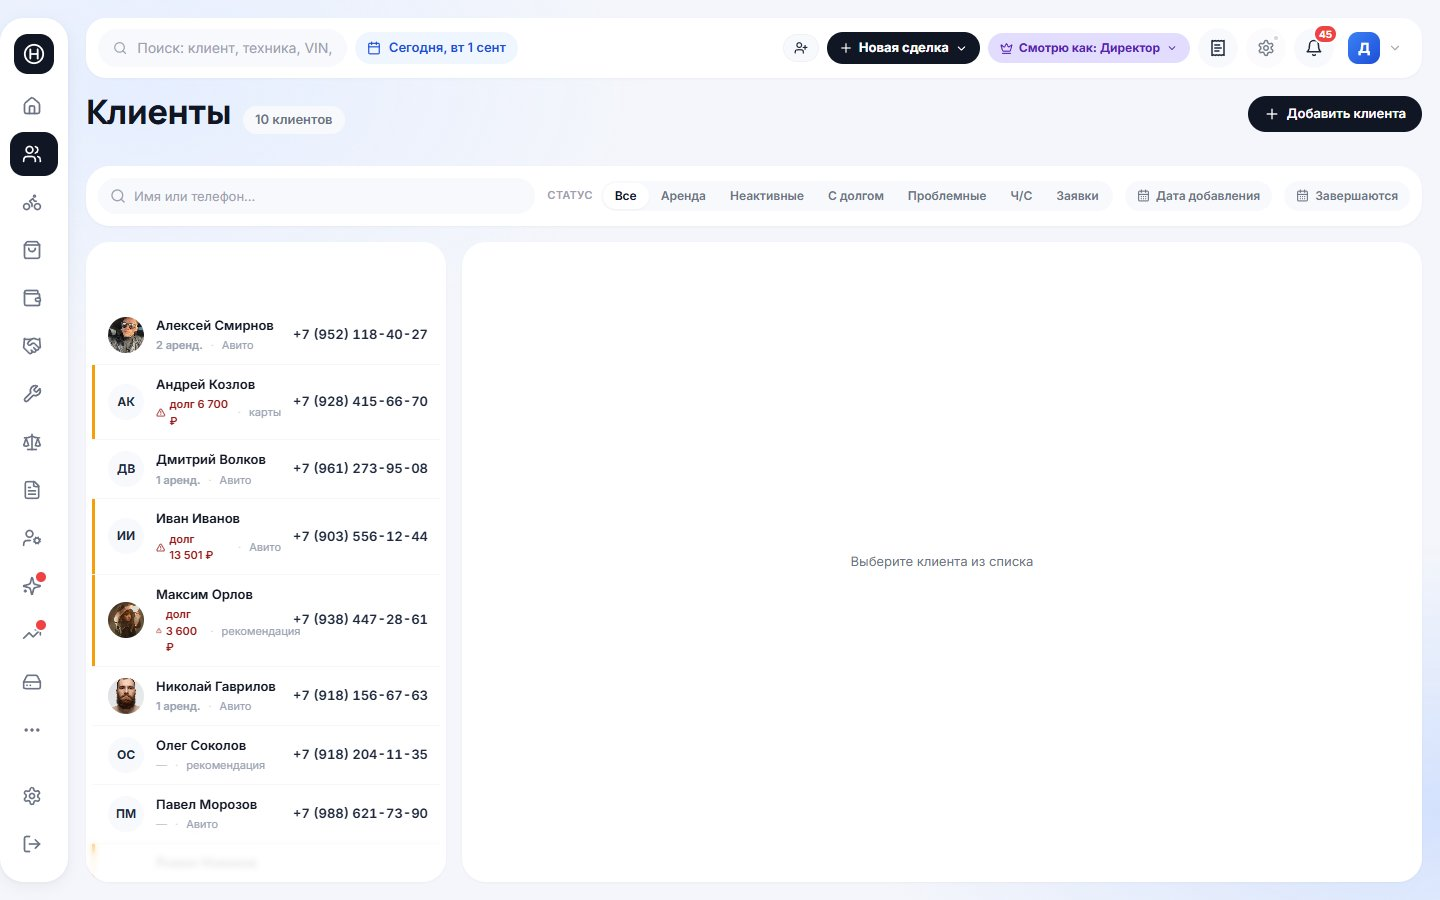
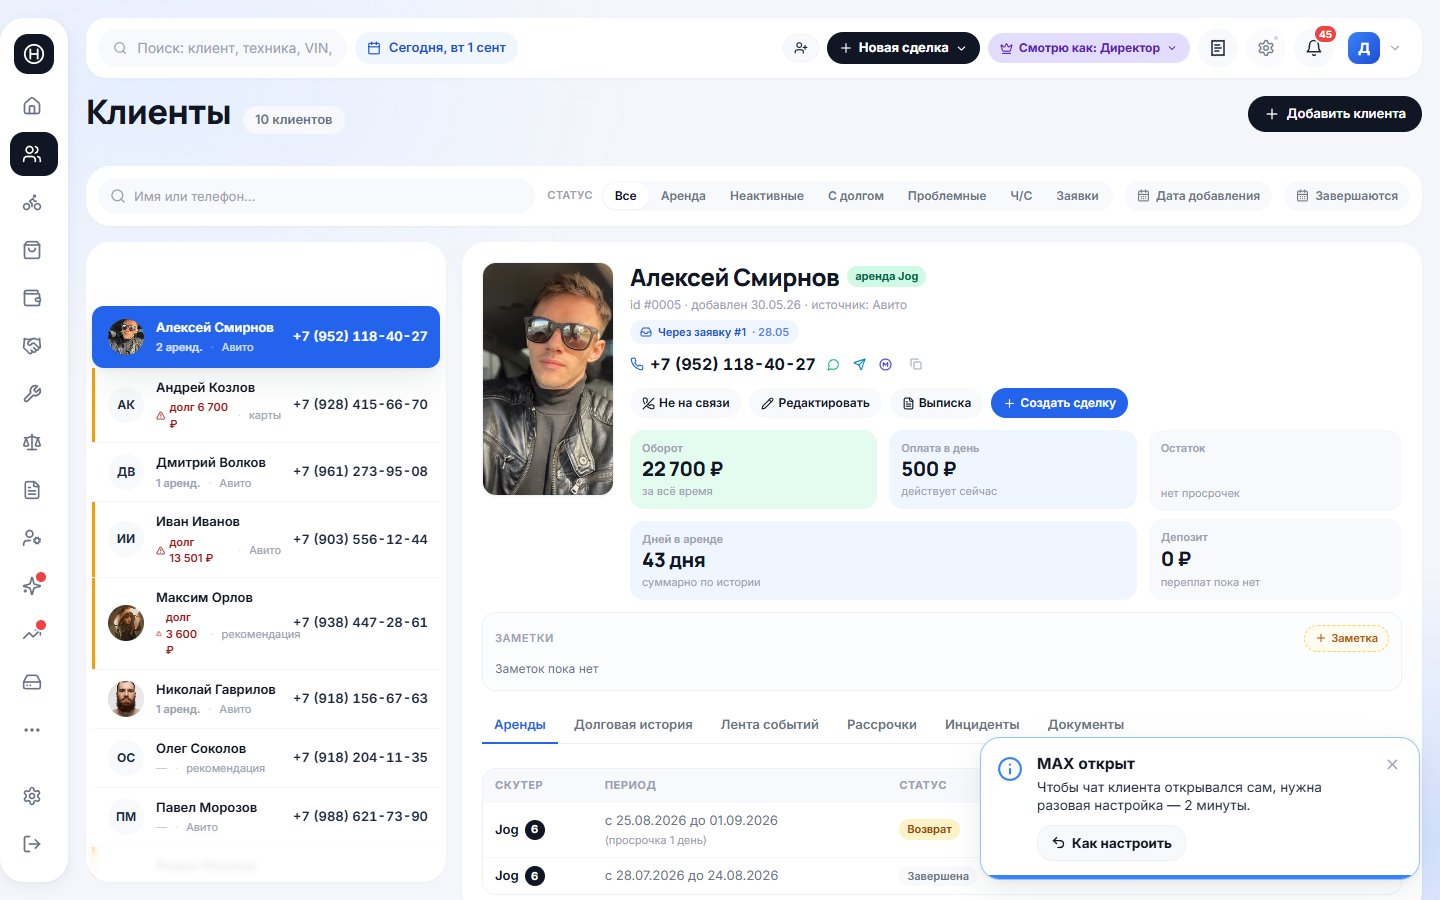
docs(развитие): пункт 2.28 — MAX открывает переписку по номеру

diff --git a/apps/web/src/data/progress.ts b/apps/web/src/data/progress.ts
@@ -1808,6 +1808,44 @@ export const progressItems: ProgressItem[] = [
     ],
   },
   {
+    id: "2.28",
+    updatedAt: "2026-09-01",
+    group: "fixes2",
+    title: "MAX: кнопка сама открывает переписку с клиентом",
+    quote:
+      "По мессенджеру MAX: не max.ru надо открывать, а web.max.ru — тогда мы попадаем в сам мессенджер, а не на их лендинг. Там есть поиск, туда вставляется номер, появляется «Найти по номеру», и открывается чат. Хочу, чтобы при нажатии кнопки всё это делалось быстро и открывало чат в уже открытой вкладке MAX.",
+    status: "done",
+    note:
+      "Кнопка «MAX» у телефона клиента теперь доводит до самой переписки: вкладка MAX сама находит человека по номеру. Нужна разовая настройка на компьютере — инструкция в один экран.",
+    story: [
+      {
+        tag: "bug",
+        text:
+          "Раньше кнопка умела только половину дела: копировала номер и открывала MAX. Дальше оператор сам вставлял номер в поиск и жал «Найти по номеру» — по несколько раз на дню.",
+      },
+      {
+        tag: "fix",
+        text:
+          "Разобрались, почему нельзя просто дать ссылку. У MAX нет адреса чата по номеру: адрес вида web.max.ru/202811141 при прямом открытии сбрасывается обратно на список чатов — проверили вживую. А «нажать» что-то внутри чужого сайта прямо из CRM браузер не разрешает: это его защита, иначе любой сайт мог бы хозяйничать в вашей почте.",
+      },
+      {
+        tag: "fix",
+        text:
+          "Поэтому шаги выполняет маленький помощник на стороне MAX. CRM передаёт ему номер прямо в адресе вкладки, он вставляет номер в поиск, нажимает «Найти по номеру» и открывает переписку. Работает и когда вкладка MAX уже открыта: она не перезагружается, просто меняется чат — как вы и просили. Номер по-прежнему копируется в буфер, а если помощник не установлен, всё работает как раньше: MAX открылся, номер вставить руками.",
+      },
+      {
+        tag: "fix",
+        text:
+          "Настройка разовая и на один компьютер: при первом нажатии кнопки появится подсказка «Как настроить» — она ведёт на страницу из трёх шагов (поставить Tampermonkey, установить наш скрипт, войти в MAX). Скрипт работает только на web.max.ru и умеет ровно одно действие — найти по номеру и открыть чат; переписку он не читает и ничего не отправляет.",
+      },
+      {
+        tag: "fix",
+        text:
+          "Заодно поправили ссылку «MAX» в отправке заявки — она вела на рекламный лендинг max.ru вместо самого мессенджера.",
+      },
+    ],
+  },
+  {
     id: "2.27",
     updatedAt: "2026-09-01",
     group: "fixes2",
